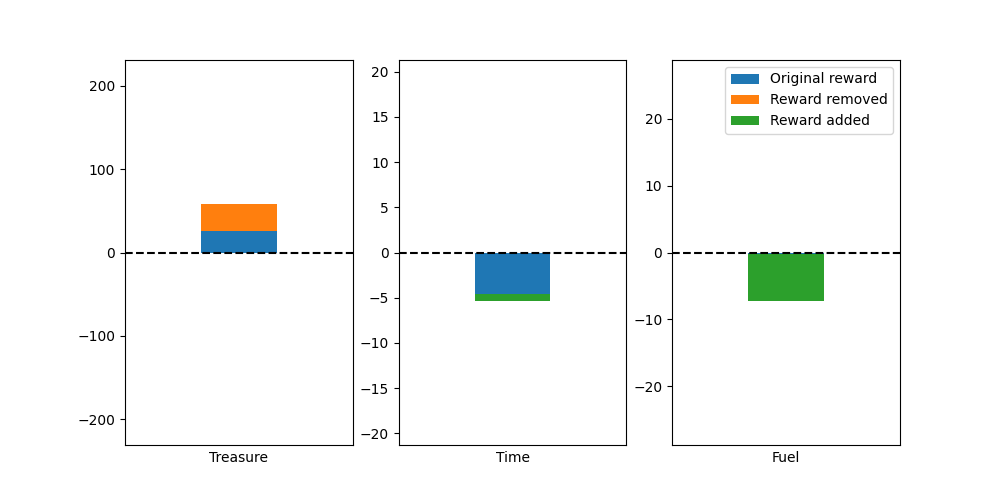
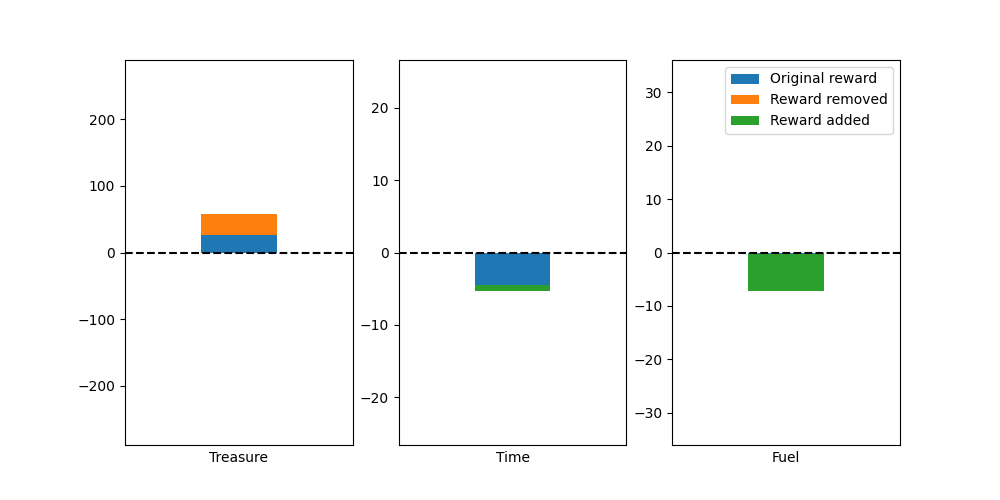
minor bug fixes

diff --git a/Pipeline/dst.py b/Pipeline/dst.py
@@ -71,12 +71,12 @@ def array_to_json(arr):
     return np.where(arr==1)[0][0] - 3
 
 def main():
-    i = 0
-    if len(sys.argv) > 0:
+    i = 2
+    if len(sys.argv) > 1:
         i = int(sys.argv[1])
 
     # Emissions
-    tracker = OfflineEmissionsTracker(country_iso_code="FIN", output_dir = "Results", output_file = f"emissions_{i}.csv")
+    tracker = OfflineEmissionsTracker(country_iso_code="FIN", output_dir = "Pipeline/Results/", output_file = f"emissions_{i}.csv")
     tracker.start()
 
     # Pareto front and baseline
@@ -90,7 +90,7 @@ def main():
     # 2. "gold digger": 1/16 time, 13/16 treasure and 2/16 fuel
     # 3. "rush": 13/16 time, 1/16 treasure and 2/16 fuel
     # 4. "balanced": 1/3 time, 1/3 treasure and 1/3 fuel
-    priorities = [[10/100,20/100,70/100],[98/100,1/100,1/100],[2/100,49/100,49/100],[20/100,40/100,40/100]]
+    priorities = [[1/10,2/10,7/10],[98/100,1/100,1/100],[1/10,5/10,4/10],[1/5,2/5,2/5]]
     dst = init_dst()
 
     policy = []
@@ -106,9 +106,11 @@ def main():
     print(f"\nHello! Conciliator steering has started.\n")
     # Seek out a policy for each user profile 
     priority = np.array(priorities[i])
+    #priority = np.array([3,0,0])
     print(f"Profile {i}: {priority}")
     con = Con.Conciliator(objectives=['Treasure','Time','Fuel'], R = baseline, filename=f"{i}", priority=priority)
     print(f"Preference: {con.preference}\n")
+    print(f"Baseline: {baseline}")
 
     dst.render()
     while not stop:
@@ -141,8 +143,8 @@ def main():
         next_state, reward, done, debug_info = dst.step(action)
         
         next_velo = dst.sub_vel.flatten()
-        if np.all(next_velo == 0.0) and np.any(previous_velo+np.array((json_action_x,json_action_y)) != next_velo):
-            sys.exit("Collision occurred!")
+        #if np.all(next_velo == 0.0) and np.any(previous_velo+np.array((json_action_x,json_action_y)) != next_velo):
+        #    sys.exit(f"Collision occurred with a policy {policy}!")
         current_state = next_state
         time_reward += reward[1]
         fuel_reward += reward[2]

diff --git a/Pipeline/conciliator.py b/Pipeline/conciliator.py
@@ -54,7 +54,7 @@ class Conciliator():
         self.fig.set_size_inches(10,5)
         self.width = 1/n
         for i in range(n):
-            self.axs[i].set_ylim(-abs(4*self.R[i]), abs(4*self.R[i]))
+            self.axs[i].set_ylim(-abs(5*self.R[i]), abs(5*self.R[i]))
             self.axs[i].set_xlim(-0.5, 0.5)
             self.axs[i].bar(0,height=self.R[i],width=self.width,color='tab:blue',label="Original reward")
             bar1 = self.axs[i].bar(0,height=0,bottom=min(0,self.R[i]),width=self.width,color='tab:orange',label="Reward removed")
@@ -115,12 +115,12 @@ class Conciliator():
         """  
         # Enforce the constraints
         temp = self.scaled_R + self.transfer
-        if temp[1] < np.exp(-1.5):
-            temp[0] -= np.exp(-1.5) - temp[1]
-            temp[1] = np.exp(-1.5)
-        if temp[2] < np.exp(-3.0):
-            temp[0] -= np.exp(-3.0) - temp[2]
-            temp[2] = np.exp(-3.0)
+        # if temp[1] < np.exp(-1.5):
+        #     temp[0] -= np.exp(-1.5) - temp[1]
+        #     temp[1] = np.exp(-1.5)
+        # if temp[2] < np.exp(-3.0):
+        #     temp[0] -= np.exp(-3.0) - temp[2]
+        #     temp[2] = np.exp(-3.0)
  
         for i in range(1,3):
             if temp[i] > 1.0:
@@ -140,10 +140,8 @@ class Conciliator():
         self.save_figure()
 
     def save_figure(self):
-        current_directory_path = os.getcwd()
         file_name = f'preference_{self.filename}.png'
-        file_path = os.path.join(current_directory_path, file_name)
-        subfolder_path = os.path.join(current_directory_path, '/Pipeline/Results')
+        subfolder_path = os.path.join(os.getcwd(),'Pipeline','Results')
         if not os.path.exists(subfolder_path):
             os.makedirs(subfolder_path)
         file_path = os.path.join(subfolder_path, file_name)

diff --git a/Pipeline/approximator.py b/Pipeline/approximator.py
@@ -72,17 +72,20 @@ class Approximator():
         # Regular time and fuel
         time = cumulative_reward[1] - 1
         fuel = cumulative_reward[2] - np.sum(action**2)
-        # Check for edges or seabed
         x_next, y_next = float(predicted_pos[0]), -float(predicted_pos[1])
+        # Check for seabed vertically and horizontally, and then the edges
         if np.any(((predicted_locs[0,:] >= 0) & (predicted_locs[1,:] < 0)) | (np.any((predicted_locs[0,:] > 0) & (predicted_locs[1,:] <= 0)))) or (x_next < 0) or (x_next >= 10) or (y_next > 0) or (y_next < -10):
             return (-np.inf, -np.inf, -np.inf)
         x, y =  float(dst.sub_pos[0]), -float(dst.sub_pos[1])
         treasure_coords = np.array(list(dst.treasures.keys()))
-        if np.any((-x_next == treasure_coords[:,0]) & (-y_next == treasure_coords[:,1])):
+        # Check for the chests
+        if np.any((x_next == treasure_coords[:,0]) & (-y_next == treasure_coords[:,1])):
             return (treasure, time, fuel)
+        # Check if not stayed put
         elif (x,y) != (x_next,y_next):
             a,b,c = y_next-y,-(x_next-x),(x_next-x)*y-(y_next-y)*x
             dists = (-a*treasure_coords[:,0] - b*treasure_coords[:,1] + c) / np.sqrt(a**2+b**2)
+            # Check if move intercepts seabed or chest
             if np.any((dists <= 0) & (dists > -np.sqrt(2)/2)) & np.any((predicted_locs[0,:] > 0) & (predicted_locs[1,:] < 0)):
                 return (-np.inf, -np.inf, -np.inf)
         return (treasure, time, fuel)

diff --git a/Pipeline/deep_sea_treasure_v2/deep_sea_treasure_v0.py b/Pipeline/deep_sea_treasure_v2/deep_sea_treasure_v0.py
@@ -271,7 +271,7 @@ class DeepSeaTreasureV0(gym.Env): #type: ignore[misc]
 		else:
 			a,b,c = y_next-y,-(x_next-x),(x_next-x)*y-(y_next-y)*x
 			dists = (-a*treasure_coords[:,0] - b*treasure_coords[:,1] + c) / np.sqrt(a**2+b**2)
-			return np.any((dists <= 0) & (dists > -np.sqrt(2)/2))
+			return np.any((dists < 0) & (dists > -np.sqrt(2)/2))
 
 	def __collides_diagonally(self, next_pos: npt.NDArray[np.int32]) -> bool:
 		seabed_y: int = int(self.seabed[next_pos[0]])
